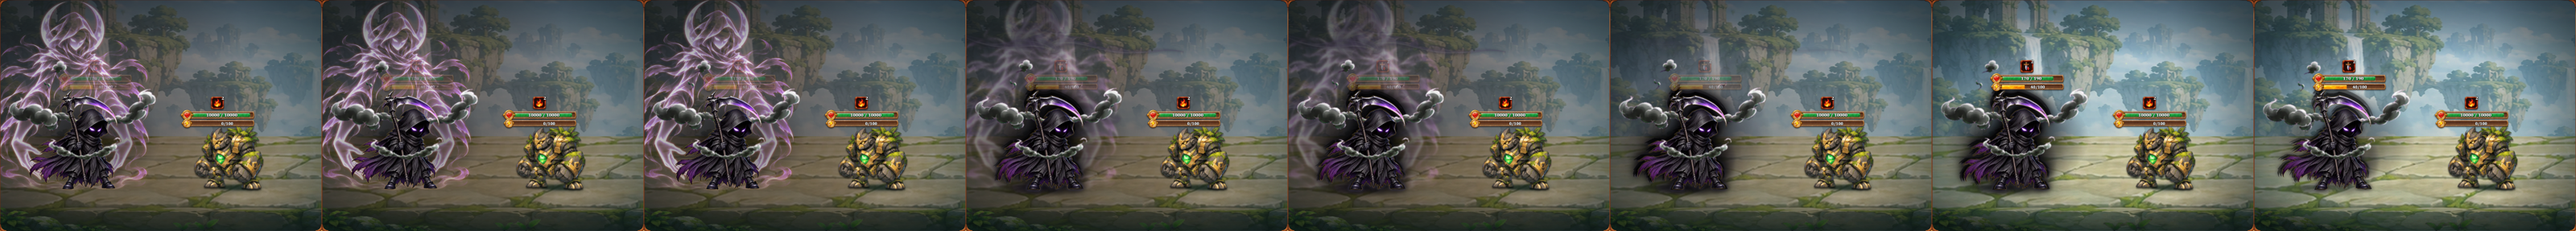
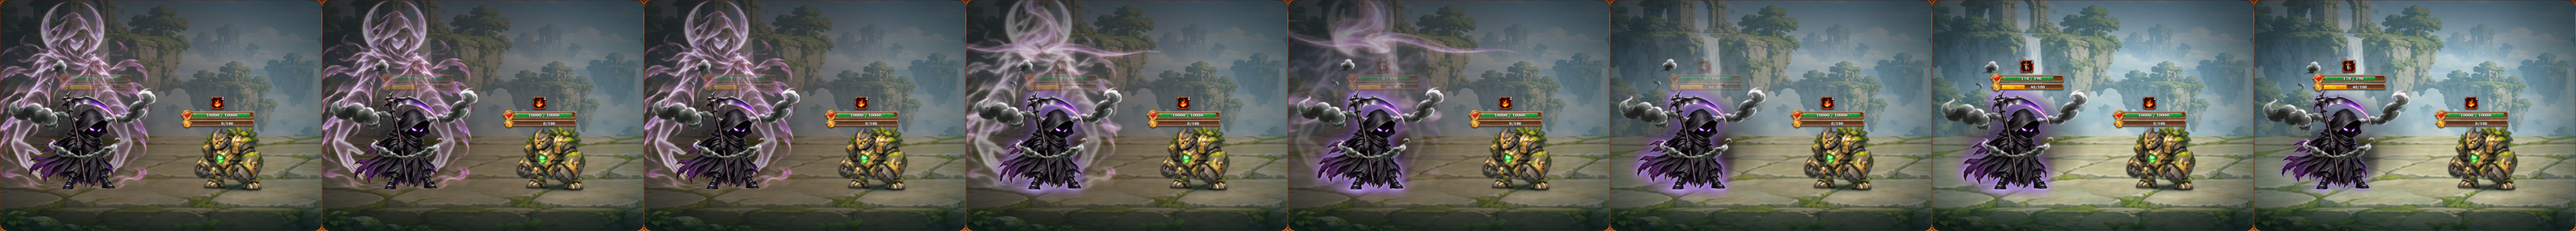
Biến Thân Noct: back to the violet aura (owner: the black aura is ugly, return Noct as before). NOCT_AURA='violet' is the default; the black variant stays in the code, one line away (NOCT_AURA='black', rules under .tf2-aura-black). Spirit and mist unchanged; proof strips refreshed

diff --git a/src/transform-fx.js b/src/transform-fx.js
@@ -25,7 +25,7 @@ function transformLookBuild(key){
     back.style.setProperty('--tf-mist',`url("${files.mist||ART.transformMist}")`);if(files.mist)back.classList.add('tf2-own-mist');back.style.setProperty('--tf2-dissolve',TRANSFORM_DISSOLVE_MS+'ms');
     back.innerHTML='<i class="tf2-dim"></i><i class="tf2-spirit"></i><span class="tf2-mist">'+'<i></i>'.repeat(5)+'</span><i class="tf2-pool"></i><i class="tf2-silbox"><i class="tf2-sil"></i></i><i class="tf2-flowbox"><i class="tf2-sil tf2-flow"></i></i>';
     // Hiro (owner 05/11): no spirit, no mist, no spirit sound; only the aura, which kindles at once.
-    // Noct's aura tone (owner 05/11: "Noct tone đen"): 'black' by default; set NOCT_AURA to 'violet' to go back to the violet aura.
+    // Noct's aura tone: NOCT_AURA 'violet' (default) or 'black' (the tried variant, rules under .tf2-aura-black in the CSS).
     if(key==='shadow'&&NOCT_AURA==='black')back.classList.add('tf2-aura-black');
     if(files.noSpirit){back.classList.add('tf2-nospirit');for(const el of back.querySelectorAll('.tf2-dim,.tf2-spirit,.tf2-mist'))el.remove();}
     front.innerHTML='';}
@@ -77,8 +77,8 @@ function transformSilMirror(hero,back){const body=hero.querySelector('.sprite-bo
 // keyframes in transform-fx.css mark it as 38.26% of 2.3 s, so change both together. The shared cue starts at the dissolve
 // plus TRANSFORM_SOUND_AFTER_DISSOLVE_MS: -450 ms, the owner's choice after testing (studio slider). The hero studio's "Âm (ms)" slider
 // overrides it for testing only (gameQA.transformSoundOffset); the game always uses the constant.
-// Noct's aura: 'black' (owner 05/11) or 'violet' (the earlier one, kept to switch back). One line to change.
-const NOCT_AURA='black';
+// Noct's aura: 'violet' (owner 05/11: the black one was tried and rejected). The black variant is kept: set 'black' to try it.
+const NOCT_AURA='violet';
 const TRANSFORM_DISSOLVE_MS=880,TRANSFORM_SOUND_AFTER_DISSOLVE_MS=-450;let transformSoundOffsetQA=null;
 const transformSoundDelay=()=>Math.max(0,TRANSFORM_DISSOLVE_MS+(transformSoundOffsetQA??TRANSFORM_SOUND_AFTER_DISSOLVE_MS));
 function transformSounds(key){if(ART.transformLooks[key]?.noSpirit){playCastSound(key,'transform',{volume:.3,pan:-.2});return;}

diff --git a/src/transform-fx.css b/src/transform-fx.css
@@ -217,7 +217,7 @@ body.ambience-paused :is(.tf-look,.tf-front) *{animation-play-state:paused!impor
 .tf-v2.tf-lightning .tf2-pool{background:radial-gradient(closest-side,rgba(245,235,255,.85),rgba(200,155,255,.55) 38%,rgba(120,60,255,.25) 66%,transparent 100%)}
 .tf-v2.tf-shadow .tf2-pool{background:radial-gradient(closest-side,rgba(235,228,255,.7),rgba(170,155,225,.45) 38%,rgba(90,72,150,.22) 66%,transparent 100%)}
 .tf-v2.tf-novice .tf2-pool{background:radial-gradient(closest-side,rgba(255,246,220,.85),rgba(242,203,116,.55) 38%,rgba(184,132,60,.25) 66%,transparent 100%)}
-/* Noct's black aura (owner 05/11, NOCT_AURA in transform-fx.js; 'violet' uses the rules above): the silhouette as ink, a
+/* Noct's black aura: a variant the owner tried and rejected (05/11); kept, on only when NOCT_AURA='black' in transform-fx.js: the silhouette as ink, a
    hairline of cool violet-grey light at its edge so it still reads on dark ground and on his dark body, then smoke-black
    glows; the mist and the pool lean dark too. The spirit's design is unchanged. */
 .tf-v2.tf2-aura-black .tf2-sil{filter:url(#tf2-cut) brightness(0) drop-shadow(0 0 calc(var(--u) * 1.2) #000) drop-shadow(0 0 calc(var(--u) * 1.2) #000)
